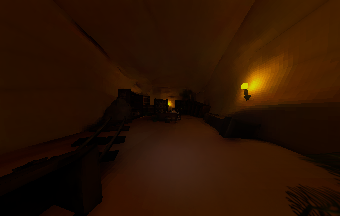
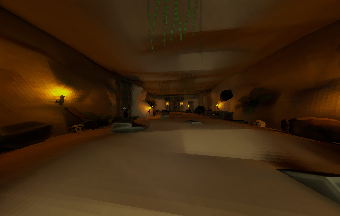
level1 intro fixes

diff --git a/Assets/Scripts/Player/PlayerMovement.cs b/Assets/Scripts/Player/PlayerMovement.cs
@@ -29,7 +29,7 @@ public class PlayerMovement : MonoBehaviour
         PlayerReference.Instance.playerMovement = this;
         if (SceneManager.GetActiveScene().buildIndex == 1)
         {
-            MovePlayerTo(3f, transform.position + transform.forward * 2f);
+            MovePlayerTo(3f, transform.position + transform.forward * 2.2f);
         }
     }
 
